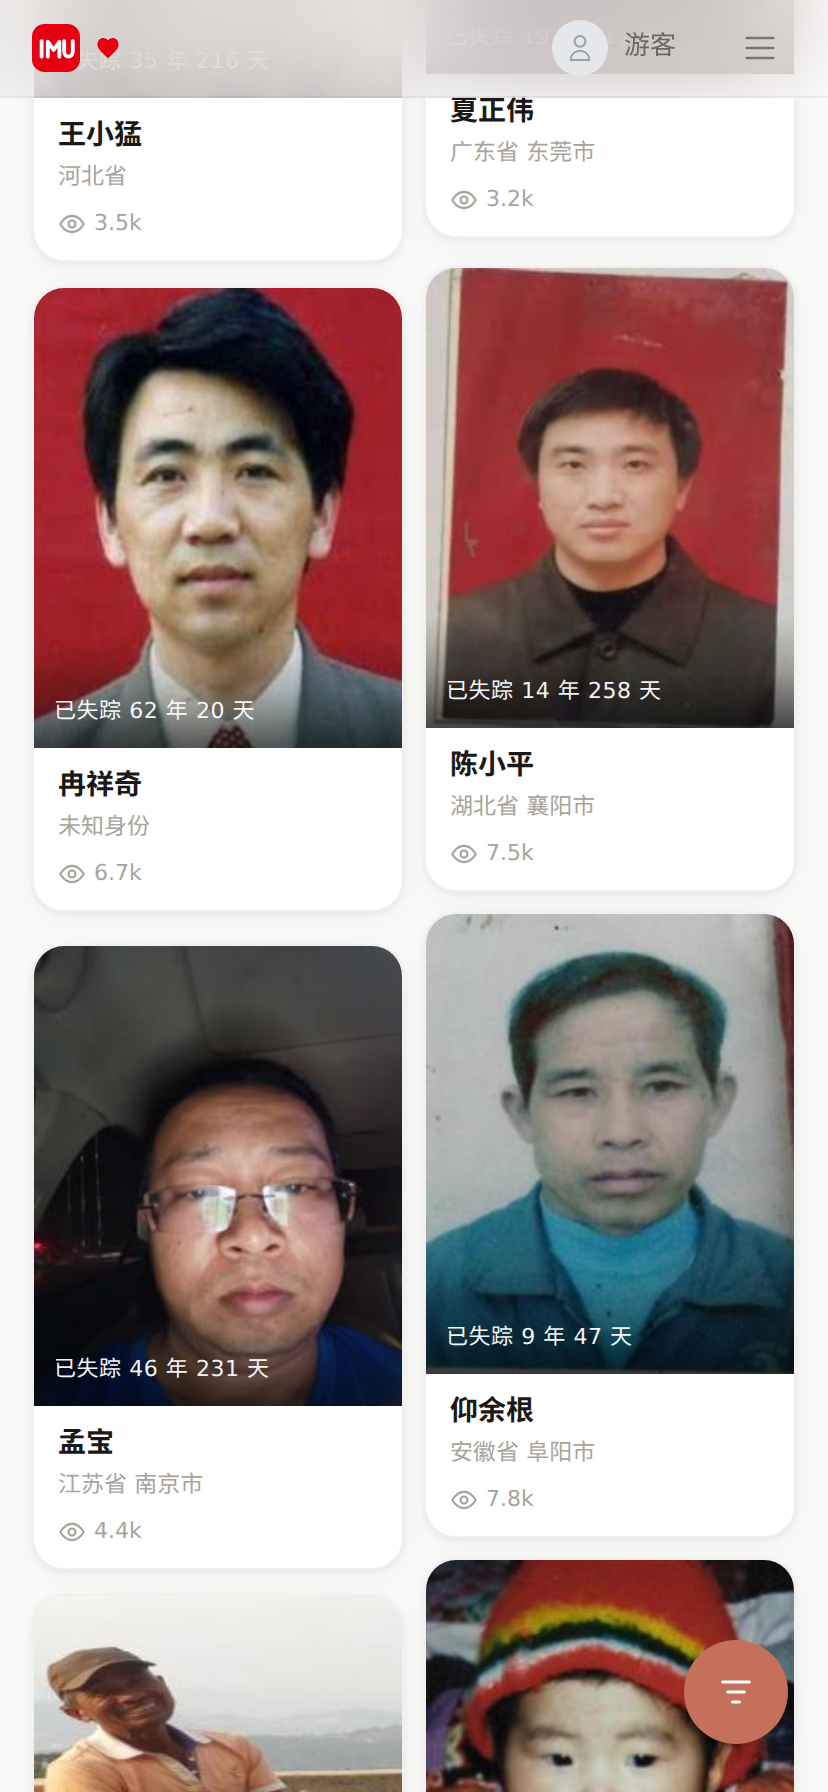
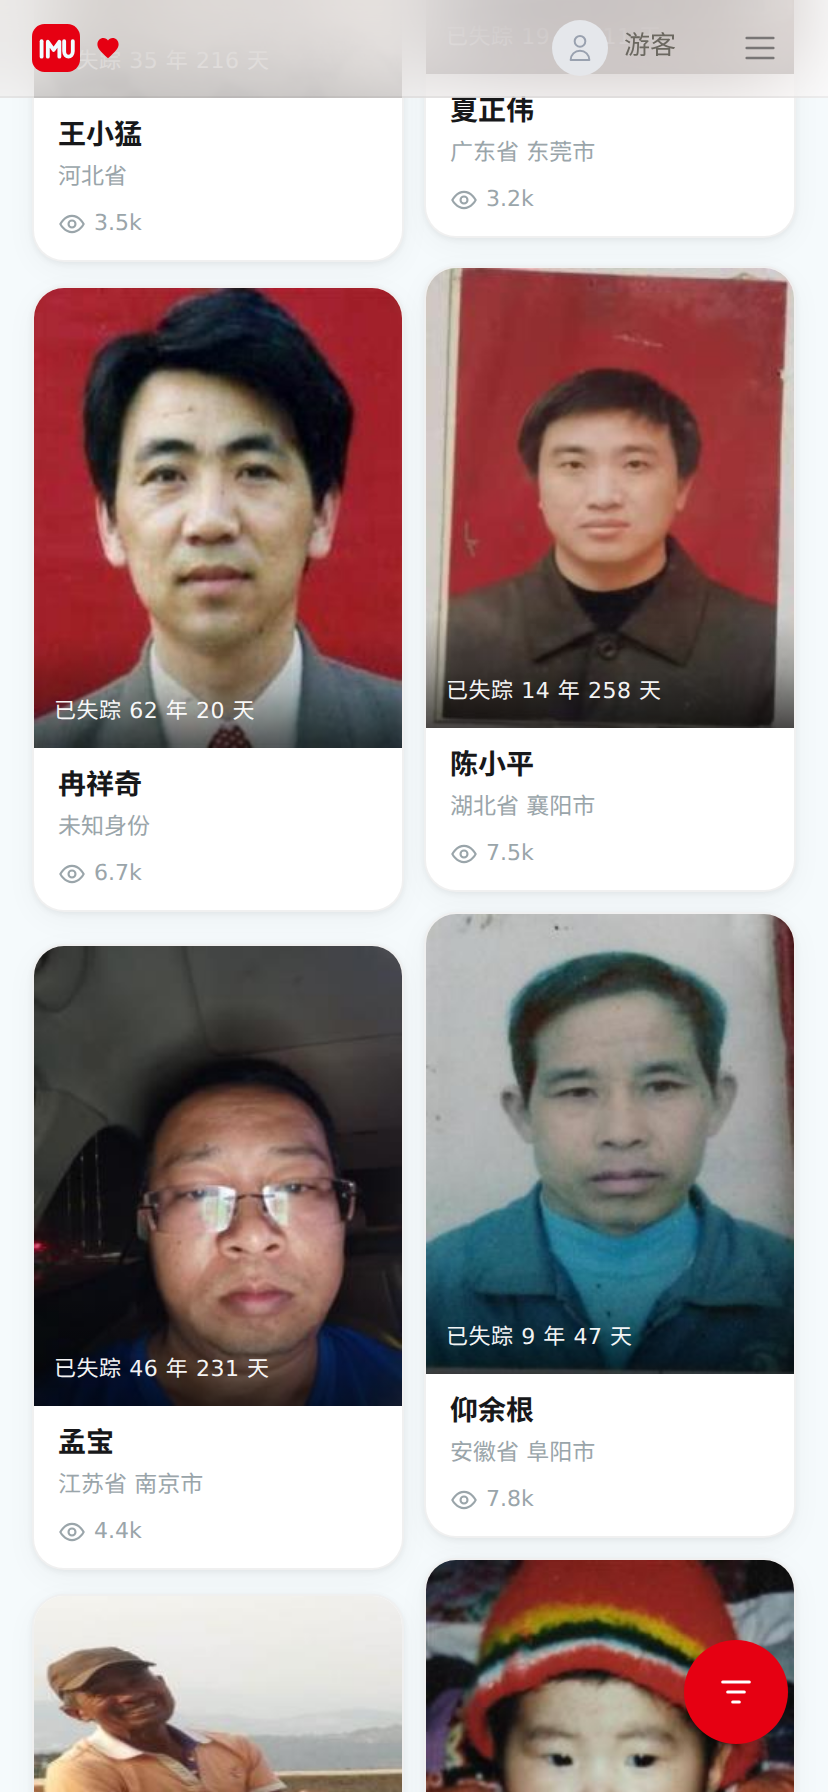
style: 整站配色统一到中国红 + 鱼肚白
把标识的配色推到全站，替换原来的陶土色（#c5705a）+ 琥珀色（#d4821a）体系：

品牌与行动点
- primary #E60012 中国红，hover #C1000F，light #FF4A55
- 琥珀强调色折进红系：--accent #D4821A → #E60012，
  浅底 #FFF3DC → #FFECEE

底色与文字转冷调（红配纸白，像宣纸上盖印章）
- body / --bg-base #FAFAF8 → #F5FAFC，--color-warm-bg → 鱼肚白 #F0FCFF
- --bg-muted #F5F4F0 → #EAF2F5，边框 #E8E6E0 → #E2EAEE
- 文字与次级灰由暖偏冷：#1A1917 → #17181A、#6B6860 → #646E73、
  #A8A49D → #9AA5AA；毛玻璃导航底色同步
- 卡片图片占位底 #F2EFEB → #E8F0F3

- --danger 从 #C0392B 改成更深的 #9E0016：品牌色变成纯红之后，
  破坏性操作必须和品牌行动区分开，否则两者看起来是同一个色
- OG 图渐变与文字色一并转冷调

只动公开页面；admin 有独立暗色主题，未涉及。改动前后 ESLint 计数一致
（17 problems，均为既有问题），未引入新告警。截图已重新采集。

Changed region(s): [[0.8152, 0.9062, 0.9662, 1.0]]

diff --git a/src/components/case/CaseSidebar.tsx b/src/components/case/CaseSidebar.tsx
@@ -90,11 +90,11 @@ export function CaseSidebar(props: CaseSidebarProps) {
         value={localSearch}
         onChange={(e) => setLocalSearch(e.target.value)}
         placeholder={t.filter.searchPlaceholder}
-        className="flex-1 h-10 px-4 text-[13px] border border-black/10 dark:border-white/10 rounded-xl bg-white dark:bg-[#1a1a1a] text-[#1c1c1e] dark:text-[#e8e8e8] placeholder:text-[#1c1c1e]/25 dark:placeholder:text-white/20 focus:outline-none focus:ring-2 focus:ring-[#c5705a]/20 transition-all duration-200"
+        className="flex-1 h-10 px-4 text-[13px] border border-black/10 dark:border-white/10 rounded-xl bg-white dark:bg-[#1a1a1a] text-[#1c1c1e] dark:text-[#e8e8e8] placeholder:text-[#1c1c1e]/25 dark:placeholder:text-white/20 focus:outline-none focus:ring-2 focus:ring-[#e60012]/20 transition-all duration-200"
       />
       <button
         type="submit"
-        className="h-10 px-5 text-[13px] font-medium text-white bg-[#c5705a] hover:bg-[#b05a45] rounded-xl transition-colors duration-200"
+        className="h-10 px-5 text-[13px] font-medium text-white bg-[#e60012] hover:bg-[#c1000f] rounded-xl transition-colors duration-200"
       >
         {t.filter.searchButton}
       </button>
@@ -121,7 +121,7 @@ export function CaseSidebar(props: CaseSidebarProps) {
             <select
               value={props.gender}
               onChange={(e) => props.onGenderChange(e.target.value)}
-              className="h-10 px-3.5 text-[13px] border border-black/10 dark:border-white/10 rounded-xl bg-white dark:bg-[#1a1a1a] text-[#1c1c1e]/60 dark:text-white/50 focus:outline-none focus:ring-2 focus:ring-[#c5705a]/20 transition-all duration-200 appearance-none w-full"
+              className="h-10 px-3.5 text-[13px] border border-black/10 dark:border-white/10 rounded-xl bg-white dark:bg-[#1a1a1a] text-[#1c1c1e]/60 dark:text-white/50 focus:outline-none focus:ring-2 focus:ring-[#e60012]/20 transition-all duration-200 appearance-none w-full"
             >
               {GENDERS.map((g) => (
                 <option key={g.value} value={g.value}>
@@ -192,23 +192,23 @@ export function CaseSidebar(props: CaseSidebarProps) {
             onClick={() => togglePanel("search")}
             className={`relative flex h-11 w-11 items-center justify-center rounded-xl border transition-colors ${
               panel === "search"
-                ? "border-[#c5705a]/30 bg-[#c5705a]/10 text-[#c5705a]"
+                ? "border-[#e60012]/30 bg-[#e60012]/10 text-[#e60012]"
                 : "border-black/10 dark:border-white/10 text-[#1c1c1e]/50 dark:text-white/40 hover:bg-black/5 dark:hover:bg-white/5"
             }`}
           >
             <SearchIcon className="h-4.5 w-4.5" />
-            {props.search && <span className="absolute top-1 right-1 h-1.5 w-1.5 rounded-full bg-[#c5705a]" />}
+            {props.search && <span className="absolute top-1 right-1 h-1.5 w-1.5 rounded-full bg-[#e60012]" />}
           </button>
           <button
             onClick={() => togglePanel("filter")}
             className={`relative flex h-11 w-11 items-center justify-center rounded-xl border transition-colors ${
               panel === "filter"
-                ? "border-[#c5705a]/30 bg-[#c5705a]/10 text-[#c5705a]"
+                ? "border-[#e60012]/30 bg-[#e60012]/10 text-[#e60012]"
                 : "border-black/10 dark:border-white/10 text-[#1c1c1e]/50 dark:text-white/40 hover:bg-black/5 dark:hover:bg-white/5"
             }`}
           >
             <FilterIcon className="h-4.5 w-4.5" />
-            {hasFilter && <span className="absolute top-1 right-1 h-1.5 w-1.5 rounded-full bg-[#c5705a]" />}
+            {hasFilter && <span className="absolute top-1 right-1 h-1.5 w-1.5 rounded-full bg-[#e60012]" />}
           </button>
         </div>
 
@@ -227,11 +227,11 @@ export function CaseSidebar(props: CaseSidebarProps) {
       <button
         onClick={() => setMobileOpen(true)}
         className="lg:hidden fixed bottom-6 right-5 z-40 flex h-13 w-13 items-center justify-center rounded-full shadow-lg text-white transition-transform active:scale-95"
-        style={{ background: "#c5705a", width: "52px", height: "52px" }}
+        style={{ background: "#e60012", width: "52px", height: "52px" }}
       >
         <FilterIcon className="h-5 w-5" />
         {hasActive && (
-          <span className="absolute top-1 right-1 h-2.5 w-2.5 rounded-full bg-white border-2" style={{ borderColor: "#c5705a" }} />
+          <span className="absolute top-1 right-1 h-2.5 w-2.5 rounded-full bg-white border-2" style={{ borderColor: "#e60012" }} />
         )}
       </button>
 

diff --git a/src/app/submit/page.tsx b/src/app/submit/page.tsx
@@ -13,7 +13,7 @@ import { GENDERS } from "@/lib/constants";
 import { RegionCascader } from "@/components/shared/RegionCascader";
 import { usePublicLang } from "@/lib/i18n/public-context";
 
-const selectClass = "w-full px-3.5 py-2.5 border border-black/10 dark:border-white/10 rounded-xl text-[14px] bg-white dark:bg-[#1a1a1a] text-[#1c1c1e] dark:text-[#e8e8e8] focus:outline-none focus:ring-2 focus:ring-[#c5705a]/20 transition-all duration-200";
+const selectClass = "w-full px-3.5 py-2.5 border border-black/10 dark:border-white/10 rounded-xl text-[14px] bg-white dark:bg-[#1a1a1a] text-[#1c1c1e] dark:text-[#e8e8e8] focus:outline-none focus:ring-2 focus:ring-[#e60012]/20 transition-all duration-200";
 
 type Tab = "missing" | "clue";
 
@@ -222,7 +222,7 @@ export default function SubmitPage() {
                 onClick={() => setTab("missing")}
                 className={`flex-1 py-2.5 rounded-[10px] text-[14px] font-medium transition-all duration-200 ${
                   tab === "missing"
-                    ? "bg-white dark:bg-[#1a1a1a] text-[#c5705a] shadow-sm"
+                    ? "bg-white dark:bg-[#1a1a1a] text-[#e60012] shadow-sm"
                     : "text-[#1c1c1e]/35 dark:text-white/25 hover:text-[#1c1c1e]/60 dark:hover:text-white/50"
                 }`}
               >
@@ -233,7 +233,7 @@ export default function SubmitPage() {
                 onClick={() => setTab("clue")}
                 className={`flex-1 py-2.5 rounded-[10px] text-[14px] font-medium transition-all duration-200 ${
                   tab === "clue"
-                    ? "bg-white dark:bg-[#1a1a1a] text-[#c5705a] shadow-sm"
+                    ? "bg-white dark:bg-[#1a1a1a] text-[#e60012] shadow-sm"
                     : "text-[#1c1c1e]/35 dark:text-white/25 hover:text-[#1c1c1e]/60 dark:hover:text-white/50"
                 }`}
               >
@@ -379,7 +379,7 @@ export default function SubmitPage() {
                       <button
                         type="button"
                         onClick={() => setClueStep("search")}
-                        className="text-[13px] text-[#c5705a] hover:underline"
+                        className="text-[13px] text-[#e60012] hover:underline"
                       >
                         {t.filter.searchButton}
                       </button>
@@ -460,7 +460,7 @@ export default function SubmitPage() {
                       <button
                         type="button"
                         onClick={() => setClueStep("select")}
-                        className="text-[12px] text-[#c5705a] hover:underline shrink-0"
+                        className="text-[12px] text-[#e60012] hover:underline shrink-0"
                       >
                         {t.submit.clueStepSelect}
                       </button>

diff --git a/src/app/globals.css b/src/app/globals.css
@@ -2,20 +2,22 @@
 
 @custom-variant dark (&:where(.dark, .dark *));
 
+/* 中国红 + 鱼肚白。红只出现在品牌与行动点上，大面积仍是接近纸白的冷调底，
+   像盖在宣纸上的一枚印章——寻人平台不该整屏都是警示红。 */
 @theme inline {
-  --color-primary: #c5705a;
-  --color-primary-light: #d48a74;
-  --color-primary-dark: #b05a45;
-  --color-accent: #d4a574;
-  --color-warm-bg: #faf7f5;
+  --color-primary: #e60012;
+  --color-primary-light: #ff4a55;
+  --color-primary-dark: #c1000f;
+  --color-accent: #ff8a90;
+  --color-warm-bg: #f0fcff;
   --color-card: #ffffff;
-  --color-muted: #8b8b8b;
+  --color-muted: #7c8a90;
   --font-sans: "SF Pro Display", "SF Pro Text", system-ui, -apple-system, "PingFang SC", "Microsoft YaHei", sans-serif;
 }
 
 body {
   font-family: var(--font-sans);
-  background: #fafaf9;
+  background: #f5fafc;
   color: #1c1c1e;
   -webkit-font-smoothing: antialiased;
   -moz-osx-font-smoothing: grayscale;
@@ -50,18 +52,19 @@ body {
 
 /* ─── v2.0 设计 token ─── */
 :root {
-  --bg-base: #FAFAF8;
+  --bg-base: #F5FAFC;
   --bg-surface: #FFFFFF;
-  --bg-muted: #F5F4F0;
-  --text-primary: #1A1917;
-  --text-secondary: #6B6860;
-  --text-tertiary: #A8A49D;
+  --bg-muted: #EAF2F5;
+  --text-primary: #17181A;
+  --text-secondary: #646E73;
+  --text-tertiary: #9AA5AA;
   --border-subtle: rgba(0,0,0,0.06);
-  --border-default: #E8E6E0;
-  --accent: #D4821A;
-  --accent-light: #FFF3DC;
+  --border-default: #E2EAEE;
+  --accent: #E60012;
+  --accent-light: #FFECEE;
   --success: #2D7D4F;
-  --danger: #C0392B;
+  /* 比品牌红更深，避免破坏性操作和品牌行动看起来是同一个色 */
+  --danger: #9E0016;
   --radius-card: 16px;
   --radius-btn: 10px;
   --radius-modal: 20px;
@@ -115,7 +118,7 @@ body {
 /* 毛玻璃导航 */
 .glass-nav {
   backdrop-filter: blur(20px) saturate(1.8);
-  background: rgba(250,250,248,0.88);
+  background: rgba(245,250,252,0.88);
   border-bottom: 1px solid var(--border-subtle);
 }
 
@@ -151,4 +154,4 @@ body {
 .legal-body ul { margin: 10px 0; padding-left: 1.25rem; list-style: disc; }
 .legal-body li { margin: 6px 0; }
 .legal-body strong { color: #1A1917; font-weight: 600; }
-.legal-body a { color: #c5705a; }
+.legal-body a { color: #e60012; }

diff --git a/src/app/opengraph-image.tsx b/src/app/opengraph-image.tsx
@@ -17,7 +17,7 @@ export default async function OpengraphImage() {
           flexDirection: "column",
           justifyContent: "center",
           padding: "0 96px",
-          background: "linear-gradient(135deg, #FDF8F5 0%, #F5E9E2 55%, #EBD6CB 100%)",
+          background: "linear-gradient(135deg, #FBFDFE 0%, #EAF3F7 55%, #DCE9EF 100%)",
           fontFamily: "sans-serif",
         }}
       >
@@ -40,19 +40,19 @@ export default async function OpengraphImage() {
             IMU
           </div>
           <div style={{ display: "flex", flexDirection: "column" }}>
-            <div style={{ fontSize: 62, fontWeight: 700, color: "#1A1917", lineHeight: 1.1 }}>
+            <div style={{ fontSize: 62, fontWeight: 700, color: "#17181A", lineHeight: 1.1 }}>
               我好想你
             </div>
-            <div style={{ fontSize: 26, color: "#8A6552", marginTop: 6, letterSpacing: 6 }}>
+            <div style={{ fontSize: 26, color: "#7C8A90", marginTop: 6, letterSpacing: 6 }}>
               I MISS YOU
             </div>
           </div>
         </div>
 
-        <div style={{ fontSize: 40, color: "#4A423C", marginTop: 56, lineHeight: 1.45 }}>
+        <div style={{ fontSize: 40, color: "#3C4448", marginTop: 56, lineHeight: 1.45 }}>
           让失散的家人，被世界发现
         </div>
-        <div style={{ fontSize: 26, color: "#8B8177", marginTop: 16 }}>
+        <div style={{ fontSize: 26, color: "#8794A0", marginTop: 16 }}>
           全球失踪人口信息聚合公益平台 · 永久免费
         </div>
 
@@ -63,7 +63,7 @@ export default async function OpengraphImage() {
             height: 8,
             width: 220,
             borderRadius: 4,
-            background: "#C5705A",
+            background: "#E60012",
           }}
         />
       </div>

diff --git a/src/components/comment/CommentForm.tsx b/src/components/comment/CommentForm.tsx
@@ -44,14 +44,14 @@ export function CommentForm({
         placeholder={t.comment.nicknamePlaceholder}
         value={authorName}
         onChange={(e) => setAuthorName(e.target.value)}
-        className="w-full px-3.5 py-2.5 border border-black/10 dark:border-white/10 rounded-xl text-[14px] bg-white dark:bg-[#1a1a1a] text-[#1c1c1e] dark:text-[#e8e8e8] focus:outline-none focus:ring-2 focus:ring-[#c5705a]/20 transition-all duration-200 placeholder:text-[#1c1c1e]/25 dark:placeholder:text-white/20"
+        className="w-full px-3.5 py-2.5 border border-black/10 dark:border-white/10 rounded-xl text-[14px] bg-white dark:bg-[#1a1a1a] text-[#1c1c1e] dark:text-[#e8e8e8] focus:outline-none focus:ring-2 focus:ring-[#e60012]/20 transition-all duration-200 placeholder:text-[#1c1c1e]/25 dark:placeholder:text-white/20"
         maxLength={20}
       />
       <textarea
         placeholder={t.comment.contentPlaceholder}
         value={content}
         onChange={(e) => setContent(e.target.value)}
-        className="w-full px-3.5 py-2.5 border border-black/10 dark:border-white/10 rounded-xl text-[14px] resize-none bg-white dark:bg-[#1a1a1a] text-[#1c1c1e] dark:text-[#e8e8e8] focus:outline-none focus:ring-2 focus:ring-[#c5705a]/20 transition-all duration-200 placeholder:text-[#1c1c1e]/25 dark:placeholder:text-white/20"
+        className="w-full px-3.5 py-2.5 border border-black/10 dark:border-white/10 rounded-xl text-[14px] resize-none bg-white dark:bg-[#1a1a1a] text-[#1c1c1e] dark:text-[#e8e8e8] focus:outline-none focus:ring-2 focus:ring-[#e60012]/20 transition-all duration-200 placeholder:text-[#1c1c1e]/25 dark:placeholder:text-white/20"
         rows={3}
         maxLength={500}
       />

diff --git a/src/app/case/[id]/CaseDetailClient.tsx b/src/app/case/[id]/CaseDetailClient.tsx
@@ -241,7 +241,7 @@ export function CaseDetailClient({ id }: { id: string }) {
                   <button
                     onClick={handleFollow}
                     className="px-6 py-3 rounded-xl text-sm font-semibold transition-all cursor-pointer"
-                    style={{background: following ? '#D4821A' : 'var(--bg-muted)', color: following ? 'white' : 'var(--text-primary)', border: '1px solid var(--border-default)'}}
+                    style={{background: following ? '#E60012' : 'var(--bg-muted)', color: following ? 'white' : 'var(--text-primary)', border: '1px solid var(--border-default)'}}
                   >
                     {following ? '✓ 守候中（点击取消）' : '守候 TA'}
                   </button>
@@ -292,7 +292,7 @@ export function CaseDetailClient({ id }: { id: string }) {
                 <button disabled={!questionForm.trim() || qSubmitting}
                   onClick={handleQuestionSubmit}
                   className="px-4 py-2 rounded-xl text-sm font-semibold self-end"
-                  style={{background: questionForm.trim() ? '#D4821A' : '#E5E7EB', color: questionForm.trim() ? 'white' : '#9CA3AF'}}>
+                  style={{background: questionForm.trim() ? '#E60012' : '#E5E7EB', color: questionForm.trim() ? 'white' : '#9CA3AF'}}>
                   {qSubmitting ? '提交中' : '提交'}
                 </button>
               </div>

diff --git a/src/components/ui/Input.tsx b/src/components/ui/Input.tsx
@@ -20,7 +20,7 @@ export function Input({ label, error, className, id, ...props }: InputProps) {
         className={cn(
           "w-full px-3.5 py-2.5 border border-black/10 dark:border-white/10 rounded-xl text-[14px] transition-all duration-200",
           "bg-white dark:bg-[#1a1a1a] text-[#1c1c1e] dark:text-[#e8e8e8]",
-          "focus:outline-none focus:ring-2 focus:ring-[#c5705a]/20 focus:border-[#c5705a]/40",
+          "focus:outline-none focus:ring-2 focus:ring-[#e60012]/20 focus:border-[#e60012]/40",
           "placeholder:text-[#1c1c1e]/25 dark:placeholder:text-white/20",
           error && "border-red-500/50 focus:ring-red-500/20 focus:border-red-500",
           className
@@ -52,7 +52,7 @@ export function Textarea({
         className={cn(
           "w-full px-3.5 py-2.5 border border-black/10 dark:border-white/10 rounded-xl text-[14px] transition-all duration-200 resize-none",
           "bg-white dark:bg-[#1a1a1a] text-[#1c1c1e] dark:text-[#e8e8e8]",
-          "focus:outline-none focus:ring-2 focus:ring-[#c5705a]/20 focus:border-[#c5705a]/40",
+          "focus:outline-none focus:ring-2 focus:ring-[#e60012]/20 focus:border-[#e60012]/40",
           "placeholder:text-[#1c1c1e]/25 dark:placeholder:text-white/20",
           error && "border-red-500/50 focus:ring-red-500/20 focus:border-red-500",
           className

diff --git a/src/components/ui/Button.tsx b/src/components/ui/Button.tsx
@@ -7,7 +7,7 @@ interface ButtonProps extends ButtonHTMLAttributes<HTMLButtonElement> {
 }
 
 const variants = {
-  primary: "bg-[#c5705a] text-white hover:bg-[#b05a45] shadow-sm",
+  primary: "bg-[#e60012] text-white hover:bg-[#c1000f] shadow-sm",
   secondary: "bg-black/5 dark:bg-white/10 text-[#1c1c1e]/70 dark:text-white/70 hover:bg-black/10 dark:hover:bg-white/20",
   outline: "border border-black/10 dark:border-white/10 text-[#1c1c1e]/70 dark:text-white/70 hover:bg-black/5 dark:hover:bg-white/5",
   ghost: "text-[#1c1c1e]/50 dark:text-white/50 hover:bg-black/5 dark:hover:bg-white/5",
@@ -29,7 +29,7 @@ export function Button({
   return (
     <button
       className={cn(
-        "inline-flex items-center justify-center font-medium transition-all duration-200 focus:outline-none focus:ring-2 focus:ring-[#c5705a]/30 disabled:opacity-40 disabled:pointer-events-none cursor-pointer",
+        "inline-flex items-center justify-center font-medium transition-all duration-200 focus:outline-none focus:ring-2 focus:ring-[#e60012]/30 disabled:opacity-40 disabled:pointer-events-none cursor-pointer",
         variants[variant],
         sizes[size],
         className

diff --git a/src/components/layout/RegionPrompt.tsx b/src/components/layout/RegionPrompt.tsx
@@ -23,7 +23,7 @@ export function RegionPrompt() {
       </button>
 
       <div className="flex items-start gap-2.5">
-        <div className="flex h-8 w-8 shrink-0 items-center justify-center rounded-full bg-[#c5705a]/10 text-[#c5705a]">
+        <div className="flex h-8 w-8 shrink-0 items-center justify-center rounded-full bg-[#e60012]/10 text-[#e60012]">
           <svg className="h-4 w-4" viewBox="0 0 24 24" fill="none" stroke="currentColor" strokeWidth="1.8" strokeLinecap="round" strokeLinejoin="round">
             <path d="M20 10c0 6-8 12-8 12S4 16 4 10a8 8 0 1 1 16 0Z" />
             <circle cx="12" cy="10" r="3" />
@@ -40,7 +40,7 @@ export function RegionPrompt() {
             <button
               onClick={() => switchCountry(detectedCountry)}
               disabled={leaving}
-              className="flex-1 rounded-lg bg-[#c5705a] py-1.5 text-[12px] font-medium text-white transition hover:bg-[#b5604b] active:scale-[0.98]"
+              className="flex-1 rounded-lg bg-[#e60012] py-1.5 text-[12px] font-medium text-white transition hover:bg-[#c1000f] active:scale-[0.98]"
             >
               切换
             </button>

diff --git a/src/components/layout/RegionLangPrompt.tsx b/src/components/layout/RegionLangPrompt.tsx
@@ -28,7 +28,7 @@ export function RegionLangPrompt() {
       </button>
 
       <div className="flex items-start gap-2.5">
-        <div className="flex h-8 w-8 shrink-0 items-center justify-center rounded-full bg-[#c5705a]/10 text-[#c5705a]">
+        <div className="flex h-8 w-8 shrink-0 items-center justify-center rounded-full bg-[#e60012]/10 text-[#e60012]">
           <svg className="h-4 w-4" viewBox="0 0 24 24" fill="none" stroke="currentColor" strokeWidth="1.8" strokeLinecap="round" strokeLinejoin="round">
             <path d="M4 5h16M4 12h10M4 19h7" />
           </svg>
@@ -43,7 +43,7 @@ export function RegionLangPrompt() {
           <div className="mt-2.5 flex items-center gap-2">
             <button
               onClick={() => setRegionLang("local")}
-              className="flex-1 rounded-lg bg-[#c5705a] py-1.5 text-[12px] font-medium text-white transition hover:bg-[#b5604b] active:scale-[0.98]"
+              className="flex-1 rounded-lg bg-[#e60012] py-1.5 text-[12px] font-medium text-white transition hover:bg-[#c1000f] active:scale-[0.98]"
             >
               切换
             </button>

diff --git a/src/app/page.tsx b/src/app/page.tsx
@@ -167,14 +167,14 @@ export default function HomePage() {
             </p>
             <div className="flex items-center justify-center gap-8 mt-10">
               <div>
-                <div className="text-[32px] font-semibold tracking-tight text-[#c5705a]">
+                <div className="text-[32px] font-semibold tracking-tight text-[#e60012]">
                   <LiveTotal initialTotal={globalTotal} />
                 </div>
                 <div className="text-[12px] text-[#1c1c1e]/30 dark:text-white/20 mt-0.5">{t.hero.totalLabel}</div>
               </div>
               <div className="w-px h-10 bg-black/10 dark:bg-white/10" />
               <div>
-                <div className="text-[32px] font-semibold tracking-tight text-[#c5705a]">
+                <div className="text-[32px] font-semibold tracking-tight text-[#e60012]">
                   {t.hero.freeLabel}
                 </div>
                 <div className="text-[12px] text-[#1c1c1e]/30 dark:text-white/20 mt-0.5">{t.hero.freeSubLabel}</div>

diff --git a/src/components/layout/LegalPage.tsx b/src/components/layout/LegalPage.tsx
@@ -33,7 +33,7 @@ export function LegalPage({
       <main className="flex-1 py-10">
         <Container className="max-w-3xl">
           <nav className="mb-6 text-[12px] text-[#1c1c1e]/35">
-            <Link href="/" className="hover:text-[#c5705a] no-underline">
+            <Link href="/" className="hover:text-[#e60012] no-underline">
               ← 我好想你
             </Link>
           </nav>
@@ -50,7 +50,7 @@ export function LegalPage({
           <hr className="my-10 border-black/5" />
 
           <details className="group">
-            <summary className="cursor-pointer text-[13px] text-[#1c1c1e]/45 hover:text-[#c5705a] list-none">
+            <summary className="cursor-pointer text-[13px] text-[#1c1c1e]/45 hover:text-[#e60012] list-none">
               {preferEnglish ? "查看中文版（以中文版为准）" : "View English version"}
             </summary>
             <div className="mt-6 legal-body">{preferEnglish ? zh : en}</div>
